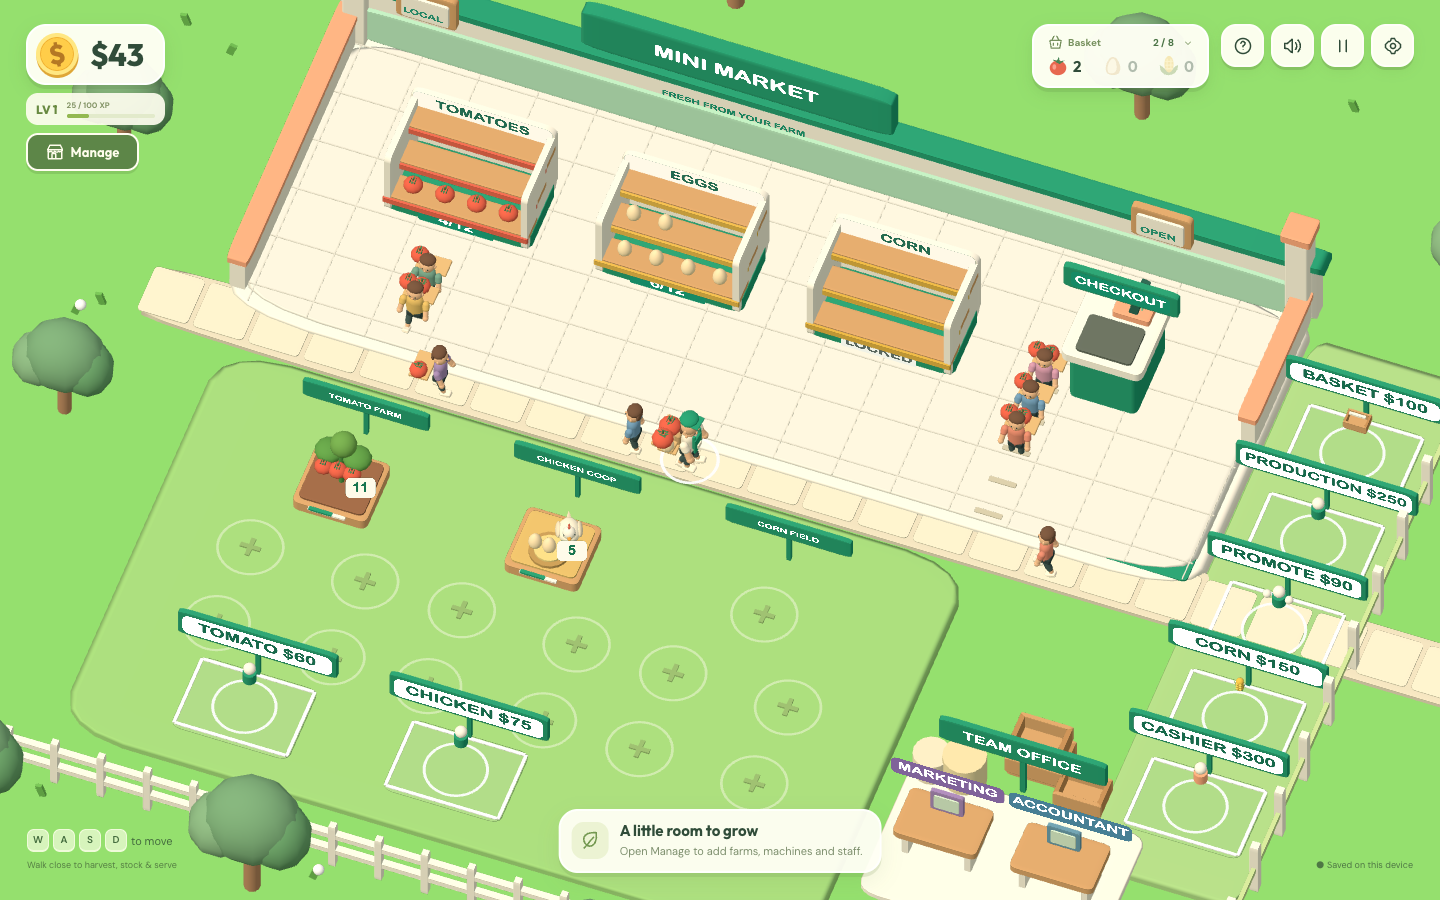
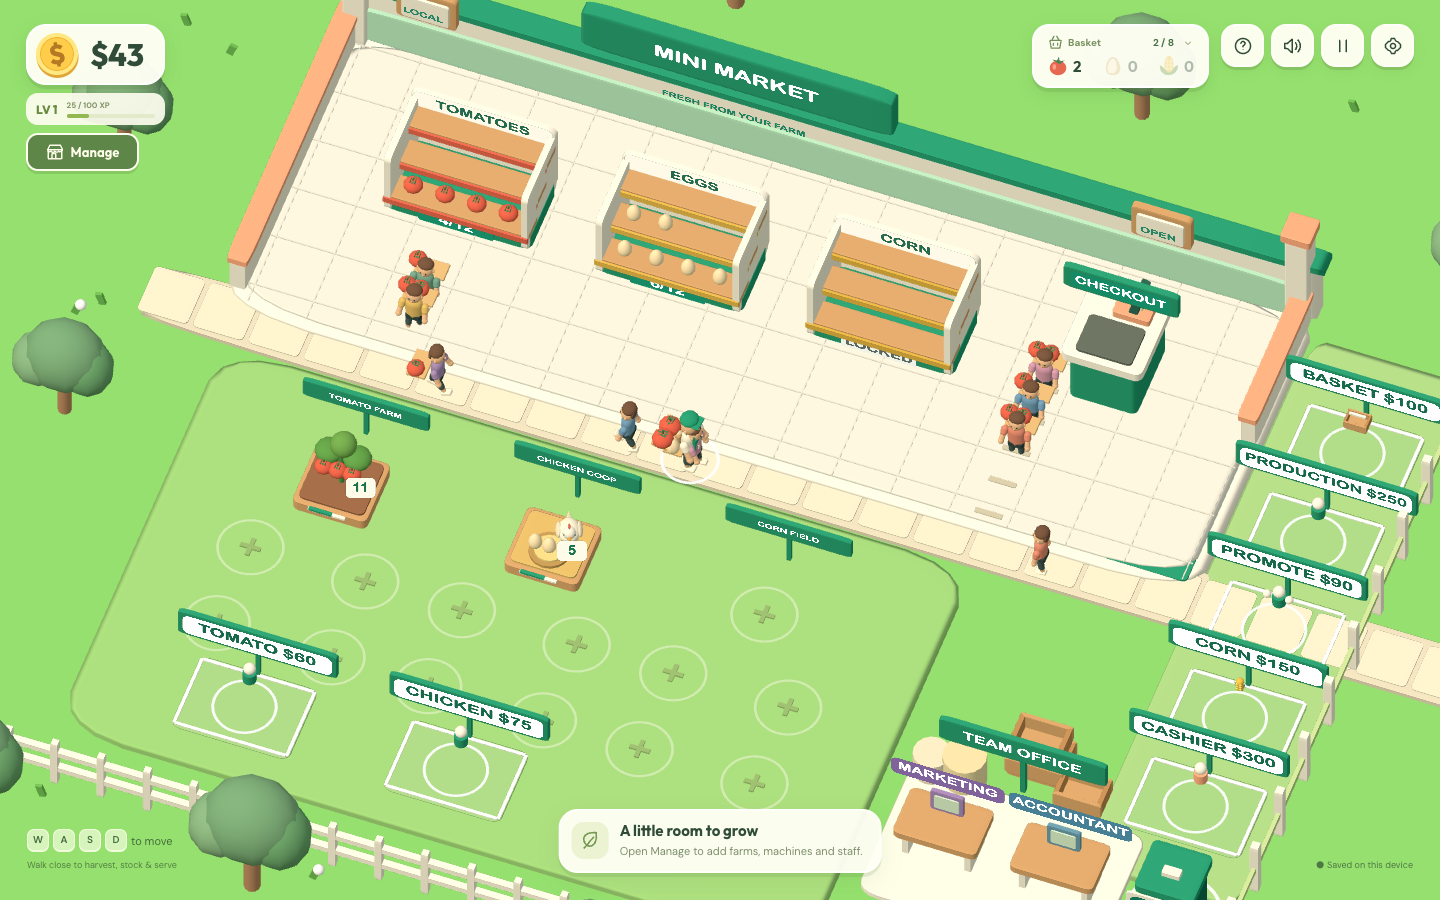
feat: add basket trash bin

diff --git a/src/main.ts b/src/main.ts
@@ -85,7 +85,7 @@ function showDialog(kind: 'settings' | 'help'): void {
   dialog.innerHTML =
     `<div class="dialog-heading"><h2>${kind === 'settings' ? 'Make yourself at home.' : 'Small steps. Fresh starts.'}</h2><button class="icon-button" id="dialog-close" aria-label="Close dialog">${icon('close')}</button></div>` +
     (kind === 'help'
-      ? `<p>Your farm, your shelves, your growing team.</p><ol><li>Move with <strong>WASD, arrow keys, the joystick, or dragging the world.</strong></li><li>Stand near ripe farm plots to collect produce, then carry it to a matching shelf. Every shelf holds 12 items.</li><li>Stand beside checkout to serve customers and earn money plus 5 XP per sale.</li><li>Open <strong>Manage</strong> to expand the store, add farm plots, build machines, and hire staff. Some upgrades also have purchase pads in the world.</li><li>Carry tomatoes to the cannery or coffee beans to the grinder. Stand close to supply raw produce and collect finished cans or coffee bags when your basket has room.</li><li>Helpers harvest, supply machines, collect finished goods, and restock shelves. Upgrade their baskets and speed to keep things moving.</li></ol><p>The production wing opens first, then the coffee corner, then the carrot garden. Your market saves automatically on this device.</p>`
+      ? `<p>Your farm, your shelves, your growing team.</p><ol><li>Move with <strong>WASD, arrow keys, the joystick, or dragging the world.</strong></li><li>Stand near ripe farm plots to collect produce, then carry it to a matching shelf. Every shelf holds 12 items.</li><li>Take unwanted carried items to the <strong>trash bin</strong> beside the team office. Stay close for one second to empty your basket.</li><li>Stand beside checkout to serve customers and earn money plus 5 XP per sale.</li><li>Open <strong>Manage</strong> to expand the store, add farm plots, build machines, and hire staff. Some upgrades also have purchase pads in the world.</li><li>Carry tomatoes to the cannery or coffee beans to the grinder. Stand close to supply raw produce and collect finished cans or coffee bags when your basket has room.</li><li>Helpers harvest, supply machines, collect finished goods, and restock shelves. Upgrade their baskets and speed to keep things moving.</li></ol><p>The production wing opens first, then the coffee corner, then the carrot garden. Your market saves automatically on this device.</p>`
       : `<div class="setting-row"><span>Market sounds<small>Original melodies & little rewards</small></span><button id="dialog-sound" class="secondary-button">${engine.state.soundEnabled ? 'Sound on' : 'Sound off'}</button></div><div class="setting-row"><span>Your little business<small>${engine.state.totalServed} customers · $${engine.state.totalEarned} lifetime earned</small></span>${icon('leaf')}</div><div class="setting-row"><span>A fresh beginning<small>Erase this device’s market progress</small></span><button id="reset-button" class="danger-button">Reset game</button></div><p>Your market is saved automatically in this browser. Clearing browser data also clears your save.</p>`);
   dialog.querySelector('#dialog-close')!.addEventListener('click', () => dialog.close());
   dialog.querySelector('#dialog-sound')?.addEventListener('click', () => {

diff --git a/src/game/rendering/WorldRenderer.ts b/src/game/rendering/WorldRenderer.ts
@@ -69,6 +69,7 @@ export class WorldRenderer {
   private readonly checkoutRing: Mesh;
   private readonly checkoutProgress: Mesh;
   private readonly checkoutLabel: WorldLabel;
+  private readonly trashProgress: Mesh;
   private readonly objective = new Group();
   private previousPlayer = { ...GAME_CONFIG.playerStart } as Vec2;
   private width = 1;
@@ -97,6 +98,7 @@ export class WorldRenderer {
     this.scene.add(sun);
     this.drawEnvironment();
     this.drawMarket();
+    this.trashProgress = this.drawTrashBin();
     this.batchStaticWorld();
     this.displays = new StoreDisplays(this.scene);
     this.drawOffice();
@@ -189,7 +191,7 @@ export class WorldRenderer {
     };
   }
 
-  update(state: GameState, timeMs: number, deltaMs: number): void {
+  update(state: GameState, timeMs: number, deltaMs: number, trashProgress = 0): void {
     this.lastState = state;
     const dx = state.player.x - this.previousPlayer.x;
     const dy = state.player.y - this.previousPlayer.y;
@@ -294,6 +296,11 @@ export class WorldRenderer {
       Math.floor(Math.min(1, state.checkoutProgress / checkoutDuration(state)) * 64) * 6,
     );
     this.checkoutLabel.setText('CHECKOUT', '#ffffff', '#168a65');
+    this.trashProgress.visible = trashProgress > 0;
+    this.trashProgress.geometry.setDrawRange(
+      0,
+      Math.floor(Math.min(1, trashProgress) * 64) * 6,
+    );
     this.updateTransfers(deltaMs);
     this.updateObjective(state, timeMs);
     this.updateCamera(deltaMs);
@@ -548,6 +555,32 @@ export class WorldRenderer {
       stamp.object.position.set(x, 1, -2.7);
     });
     block(this.scene, 3.6, 0.047, 0.06, 0.85, 0.02, 0.5, C.green);
+  }
+
+  private drawTrashBin(): Mesh {
+    const bin = new Group();
+    bin.position.copy(toWorld(GAME_CONFIG.trash));
+    bin.name = 'trash-bin';
+    this.scene.add(bin);
+    block(bin, 0, 0.34, 0, 0.52, 0.62, 0.5, C.darkGreen);
+    block(bin, 0, 0.68, -0.015, 0.59, 0.1, 0.57, C.green);
+    block(bin, 0, 0.75, 0.03, 0.18, 0.08, 0.1, C.cream);
+    block(bin, 0, 0.4, 0.258, 0.74, 0.4, 0.025, C.cream);
+    const title = label(bin, 'TRASH', 0.68, 0.34, {
+      id: 'trash:title',
+      kind: 'object',
+      mount: 'surface',
+      foreground: '#ffffff',
+      background: '#117054',
+      border: false,
+    });
+    title.object.position.set(0, 0.4, 0.274);
+    const outline = ring(bin, 0.47, C.white, 0.035);
+    outline.position.y = 0.045;
+    const progress = ring(bin, 0.4, C.peach, 0.065);
+    progress.position.y = 0.052;
+    progress.visible = false;
+    return progress;
   }
 
   private drawUpgrades(): void {

diff --git a/src/game/systems/GameEngine.ts b/src/game/systems/GameEngine.ts
@@ -32,6 +32,8 @@ export class GameEngine {
   private lastUpgradeAttempt: UpgradeId | null = null;
   private lastBlockedZone: string | null = null;
   private nextBlockedNotice = 0;
+  private trashElapsed = 0;
+  private trashUsedThisVisit = false;
 
   constructor(readonly state: GameState = createInitialState()) {
     if (!this.canWalk(state.player)) state.player = { ...GAME_CONFIG.playerStart };
@@ -67,6 +69,9 @@ export class GameEngine {
     this.events = [];
     return events;
   }
+  get trashProgress(): number {
+    return Math.min(1, this.trashElapsed / GAME_CONFIG.trashHoldTime);
+  }
 
   private canWalk(point: Vec2): boolean {
     const bounds = GAME_CONFIG.bounds;
@@ -93,7 +98,35 @@ export class GameEngine {
       )
         return false;
     }
+    if (
+      Math.abs(point.x - GAME_CONFIG.trash.x) < 32 &&
+      Math.abs(point.y - GAME_CONFIG.trash.y) < 32
+    )
+      return false;
     return !(point.x > 863 && point.x < 937 && point.y > 172 && point.y < 260);
+  }
+
+  private updateTrash(deltaMs: number): void {
+    const nearby = distance(this.state.player, GAME_CONFIG.trash) <= GAME_CONFIG.interactionRadius;
+    if (!nearby) {
+      this.trashElapsed = 0;
+      this.trashUsedThisVisit = false;
+      return;
+    }
+    if (this.trashUsedThisVisit || this.inventory.total === 0) {
+      this.trashElapsed = 0;
+      return;
+    }
+    this.trashElapsed = Math.min(GAME_CONFIG.trashHoldTime, this.trashElapsed + deltaMs);
+    if (this.trashElapsed < GAME_CONFIG.trashHoldTime) return;
+    const discarded = this.inventory.discardAll();
+    this.trashElapsed = 0;
+    this.trashUsedThisVisit = true;
+    this.events.push({
+      type: 'discard',
+      text: `Discarded ${discarded} item${discarded === 1 ? '' : 's'}`,
+      ...GAME_CONFIG.trash,
+    });
   }
 
   private movePlayer(deltaMs: number, input: Vec2): void {
@@ -115,6 +148,7 @@ export class GameEngine {
     this.harvestElapsed = Math.min(GAME_CONFIG.harvestInterval, this.harvestElapsed + deltaMs);
     this.stockElapsed = Math.min(GAME_CONFIG.stockInterval, this.stockElapsed + deltaMs);
     this.machineElapsed = Math.min(GAME_CONFIG.harvestInterval, this.machineElapsed + deltaMs);
+    this.updateTrash(deltaMs);
     for (const product of PRODUCTS) {
       if (!this.state.unlockedProducts.includes(product.id)) continue;
       const plotIndex = Array.from(

diff --git a/tests/simulation.test.ts b/tests/simulation.test.ts
@@ -86,6 +86,19 @@ describe('economy and capacity invariants', () => {
     expect(inventory.harvest('corn')).toBe(0);
     expect(inventory.stock('egg', -2)).toBe(0);
   });
+
+  it('discards every carried item without changing shelves or earnings', () => {
+    const state = createInitialState();
+    const inventory = new InventorySystem(state);
+    state.inventory.tomato = 3;
+    state.inventory.egg = 2;
+    state.shelves.tomato = 4;
+    expect(inventory.discardAll()).toBe(5);
+    expect(inventory.total).toBe(0);
+    expect(state.shelves.tomato).toBe(4);
+    expect(state.money).toBe(0);
+    expect(inventory.discardAll()).toBe(0);
+  });
 });
 
 describe('production and player interaction', () => {
@@ -154,6 +167,31 @@ describe('production and player interaction', () => {
         .map((event) => event.text),
     ).toEqual(['Tomato shelf full']);
     expect(engine.state.inventory.tomato).toBe(8);
+  });
+
+  it('requires a deliberate trash-bin hold and only empties once per visit', () => {
+    const engine = new GameEngine();
+    engine.state.inventory.tomato = 2;
+    engine.state.inventory.egg = 1;
+    engine.state.player = { ...GAME_CONFIG.trash };
+    advance(engine, GAME_CONFIG.trashHoldTime - 50);
+    expect(itemCount(engine.state.inventory)).toBe(3);
+    expect(engine.trashProgress).toBeGreaterThan(0.9);
+    advance(engine, 50);
+    expect(itemCount(engine.state.inventory)).toBe(0);
+    expect(engine.drainEvents()).toContainEqual({
+      type: 'discard',
+      text: 'Discarded 3 items',
+      ...GAME_CONFIG.trash,
+    });
+    engine.state.inventory.tomato = 1;
+    advance(engine, GAME_CONFIG.trashHoldTime + 100);
+    expect(engine.state.inventory.tomato).toBe(1);
+    engine.state.player = { x: GAME_CONFIG.trash.x - 100, y: GAME_CONFIG.trash.y };
+    advance(engine, 50);
+    engine.state.player = { ...GAME_CONFIG.trash };
+    advance(engine, GAME_CONFIG.trashHoldTime);
+    expect(engine.state.inventory.tomato).toBe(0);
   });
 });
 

diff --git a/e2e/game.spec.ts b/e2e/game.spec.ts
@@ -3,6 +3,7 @@ import type { WorldRenderer } from '../src/game/rendering/WorldRenderer';
 import type { GameEngine } from '../src/game/systems/GameEngine';
 import type { SaveSystem } from '../src/game/systems/SaveSystem';
 import type { GameState } from '../src/game/types';
+import { GAME_CONFIG } from '../src/game/data/gameConfig';
 import stuckQueue from '../tests/fixtures/stuck-queue.json' with { type: 'json' };
 
 declare global {
@@ -118,6 +119,34 @@ test('keyboard harvest, shelf stocking, customer payment, and reload persistence
   expect((await state(page)).totalServed).toBe(current.totalServed);
   await expect(page.locator('#money-value')).toHaveText(`$${current.money}`);
   expect(errors).toEqual([]);
+});
+
+test('trash bin deliberately empties the carried basket and saves the result', async ({ page }) => {
+  await openGame(page);
+  await page.evaluate((trash) => {
+    const { engine } = window.__MARKET__;
+    window.__MARKET__.setPaused(true);
+    engine.state.inventory.tomato = 2;
+    engine.state.inventory.egg = 1;
+    engine.state.player = { ...trash };
+  }, GAME_CONFIG.trash);
+  await expect(page.locator('#objective-text')).toContainText(
+    'Stay close for 1 second to discard everything.',
+  );
+  await advance(page, 950);
+  expect(Object.values((await state(page)).inventory).reduce((sum, count) => sum + count, 0)).toBe(
+    3,
+  );
+  await advance(page, 50);
+  expect(Object.values((await state(page)).inventory).reduce((sum, count) => sum + count, 0)).toBe(
+    0,
+  );
+  await page.evaluate(() => window.__MARKET__.save.save(window.__MARKET__.engine.snapshot()));
+  await page.reload();
+  await page.waitForFunction(() => window.__MARKET__?.ready);
+  expect(Object.values((await state(page)).inventory).reduce((sum, count) => sum + count, 0)).toBe(
+    0,
+  );
 });
 
 test('upgrade hold, corn production, hired cashier, tutorial and settings persistence', async ({

diff --git a/src/game/ui/Hud.ts b/src/game/ui/Hud.ts
@@ -1,4 +1,5 @@
 import { PRODUCTS } from '../data/products';
+import { GAME_CONFIG } from '../data/gameConfig';
 import { playerLevel, UPGRADES, upgradeAvailable, upgradeCost, xpForLevel } from '../data/upgrades';
 import type { GameState } from '../types';
 import { icon, productIcon } from './icons';
@@ -94,6 +95,8 @@ export class Hud {
         state.upgrades[upgrade.id] < upgrade.maxLevel &&
         Math.hypot(state.player.x - upgrade.position.x, state.player.y - upgrade.position.y) < 80,
     );
+    const nearTrash =
+      Math.hypot(state.player.x - GAME_CONFIG.trash.x, state.player.y - GAME_CONFIG.trash.y) < 85;
     const key = [
       state.money,
       ...Object.values(state.inventory),
@@ -105,6 +108,7 @@ export class Hud {
       ...Object.values(state.upgrades),
       state.unlockedProducts.join(':'),
       nearbyUpgrade?.id,
+      nearTrash,
     ].join(',');
     if (key === this.cached) return;
     this.cached = key;
@@ -163,6 +167,10 @@ export class Hud {
           : 'Stay on the pad to buy';
       this.hint.innerHTML = `<strong>${nearbyUpgrade.name} · $${cost.toLocaleString()}</strong><span>${instruction} · Or open Manage for details.</span>`;
     }
+    if (nearTrash)
+      this.hint.innerHTML = count
+        ? `<strong>Trash bin · ${count} item${count === 1 ? '' : 's'}</strong><span>Stay close for 1 second to discard everything.</span>`
+        : '<strong>Trash bin · basket empty</strong><span>Carry unwanted items here to discard them.</span>';
     this.soundButton.innerHTML = icon(state.soundEnabled ? 'sound' : 'mute');
     this.soundButton.setAttribute(
       'aria-label',

diff --git a/e2e/labels.spec.ts b/e2e/labels.spec.ts
@@ -187,6 +187,7 @@ test('world labels use unique mounted signs and intentional status badges', asyn
     'office:customers:title',
     'office:accountant:title',
     'checkout:title',
+    'trash:title',
     ...['tomato', 'egg', 'corn', 'coffee', 'carrot', 'tomatoPaste', 'groundCoffee'].map(
       (id) => `shelf:${id}:title`,
     ),
@@ -319,9 +320,12 @@ test('critical signs stay legible and contained in the compact landscape view', 
 
   await focusCamera(page, { x: 990, y: 780 });
   bounds = await labelBounds(page);
-  const office = ['office:team:title', 'office:customers:title', 'office:accountant:title'].map(
-    (id) => expectContained(bounds, id, viewport),
-  );
+  const office = [
+    'office:team:title',
+    'office:customers:title',
+    'office:accountant:title',
+    'trash:title',
+  ].map((id) => expectContained(bounds, id, viewport));
   expectVisibleLabelsLegible(bounds, viewport);
   for (let first = 0; first < office.length; first += 1)
     for (let second = first + 1; second < office.length; second += 1)

diff --git a/src/game/managers/AudioManager.ts b/src/game/managers/AudioManager.ts
@@ -1,4 +1,11 @@
-type SoundName = 'harvest' | 'stock' | 'money' | 'checkout' | 'upgrade' | 'purchase';
+type SoundName =
+  | 'harvest'
+  | 'stock'
+  | 'money'
+  | 'checkout'
+  | 'upgrade'
+  | 'purchase'
+  | 'discard';
 
 /** Original synthesized tones; no downloaded or licensed audio files. */
 export class AudioManager {
@@ -31,6 +38,7 @@ export class AudioManager {
       checkout: [440, 554],
       upgrade: [523, 659, 784, 1046],
       purchase: [587, 784],
+      discard: [294, 220],
     };
     tones[name].forEach((frequency, index) => this.tone(frequency, index * 0.075, 0.1, 0.045));
   }

diff --git a/src/game/GameRuntime.ts b/src/game/GameRuntime.ts
@@ -124,7 +124,8 @@ export class GameRuntime {
       if (important || this.saveTimer >= GAME_CONFIG.saveInterval) this.persist();
     }
     // Keep presenting while paused so resizing, camera easing, and test fixtures stay visible.
-    if (!this.contextLost) this.world.update(engine.state, this.animationTime, delta);
+    if (!this.contextLost)
+      this.world.update(engine.state, this.animationTime, delta, engine.trashProgress);
     this.floating.update(this.animationTime);
     this.hudTimer += delta;
     if (this.hudTimer >= 100) {

diff --git a/src/game/data/gameConfig.ts b/src/game/data/gameConfig.ts
@@ -10,6 +10,7 @@ export const GAME_CONFIG = {
   customerMax: 10,
   checkoutTime: 1000,
   upgradeHoldTime: 1200,
+  trashHoldTime: 1000,
   interactionRadius: 70,
   harvestInterval: 280,
   stockInterval: 180,
@@ -21,6 +22,7 @@ export const GAME_CONFIG = {
   cashierSpot: { x: 950, y: 225 },
   entrance: { x: 1000, y: 385 },
   queueStart: { x: 843, y: 260 },
+  trash: { x: 1160, y: 780 },
   queueSpacing: 38,
   bounds: { left: 105, right: 2220, top: 160, bottom: 920 },
   areaBounds: [1210, 1460, 1860, 2220],

diff --git a/src/game/systems/InventorySystem.ts b/src/game/systems/InventorySystem.ts
@@ -16,6 +16,14 @@ export class InventorySystem {
     return Math.max(0, this.state.inventoryCapacity - this.total);
   }
 
+  discardAll(): number {
+    const discarded = this.total;
+    PRODUCTS.forEach(({ id }) => {
+      this.state.inventory[id] = 0;
+    });
+    return discarded;
+  }
+
   harvest(id: ProductId, requested = 1, plotIndex?: number): number {
     return this.harvestInto(
       id,

diff --git a/src/game/types.ts b/src/game/types.ts
@@ -145,7 +145,7 @@ export interface GameState {
   accountantElapsed: number;
 }
 export interface GameEvent {
-  type: 'harvest' | 'stock' | 'money' | 'upgrade' | 'notice' | 'checkout';
+  type: 'harvest' | 'stock' | 'money' | 'upgrade' | 'notice' | 'checkout' | 'discard';
   text: string;
   x: number;
   y: number;
